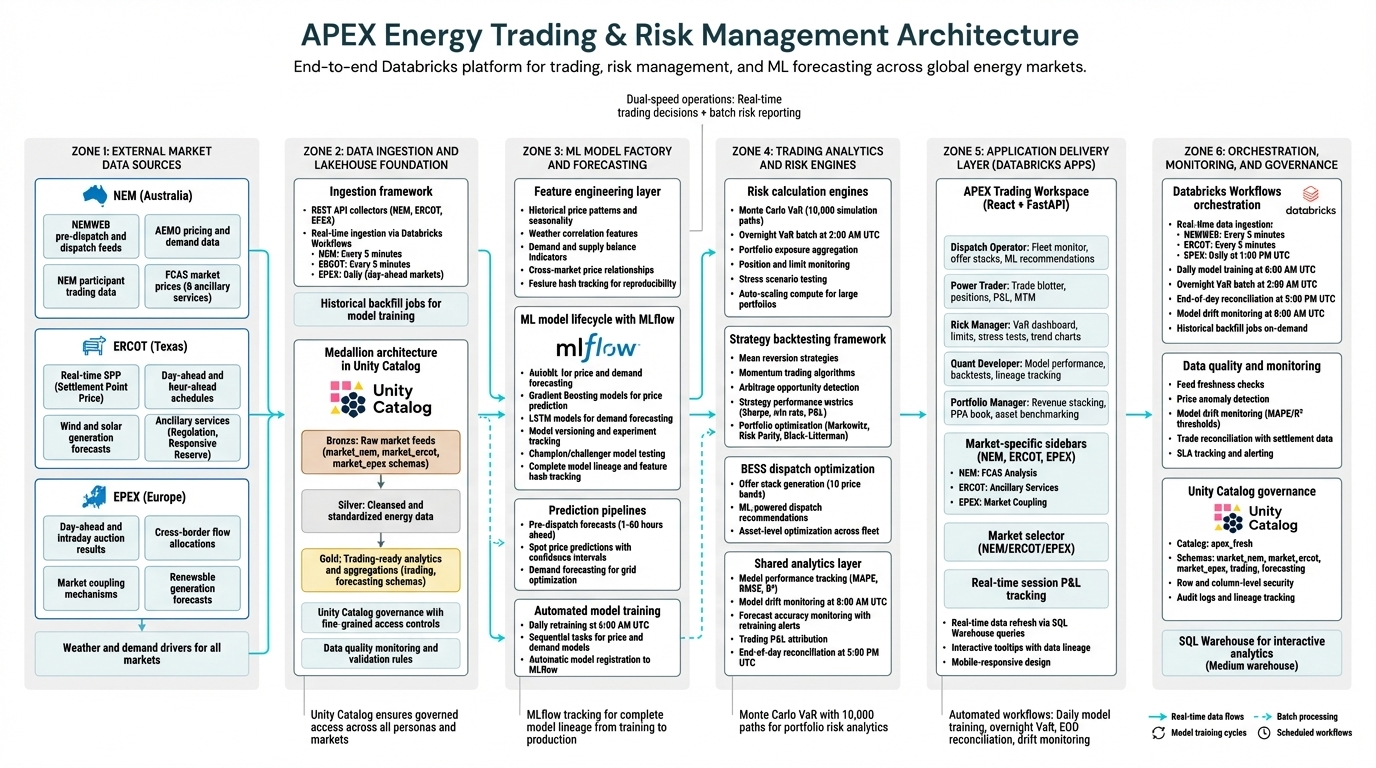
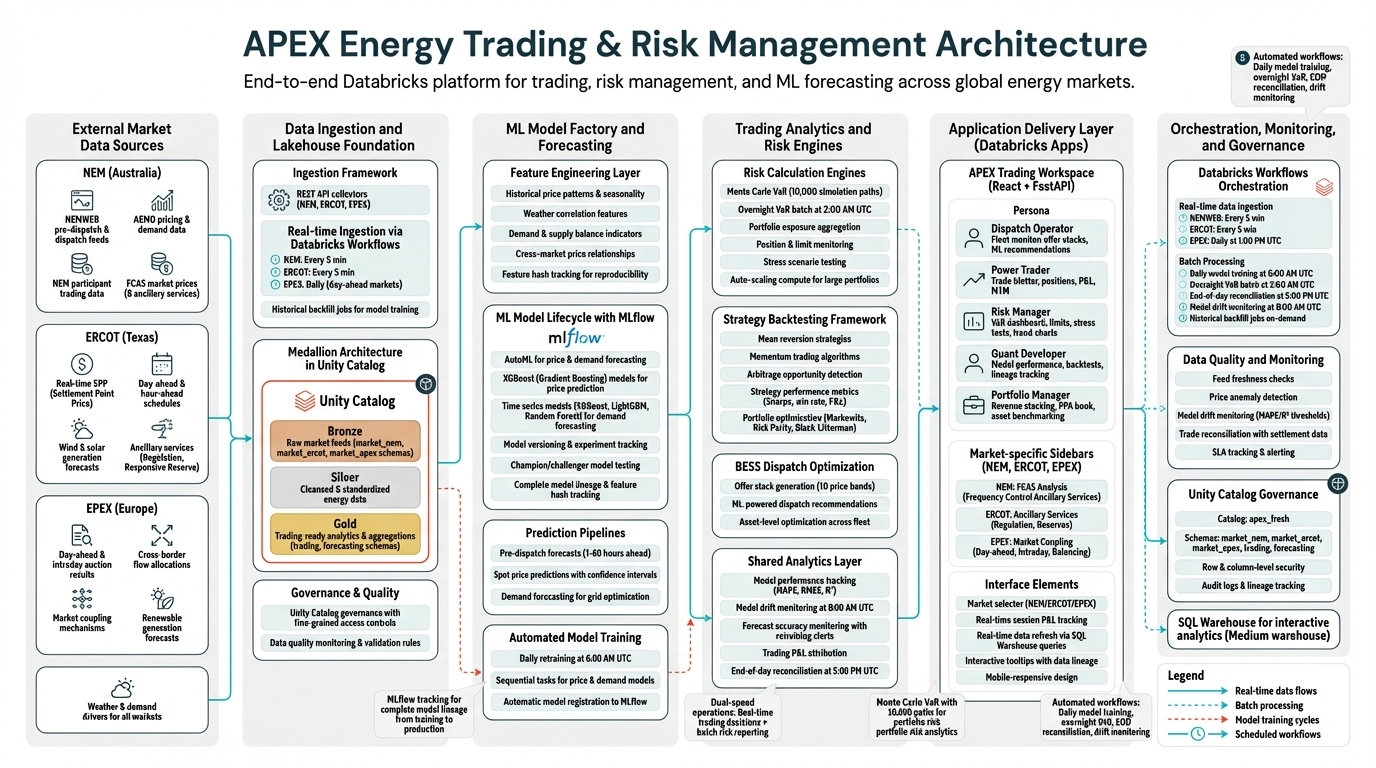
docs: correct architecture diagram ML claims (v3 accuracy update)
Updated APEX architecture diagram to accurately reflect implemented ML capabilities:
- Removed LSTM reference (not implemented in codebase)
- Updated to show actual AutoML implementation (XGBoost, LightGBM, Random Forest)
- Verified all other technical claims (champion/challenger, feature hash tracking)

Changes:
- Regenerated diagram with corrected ML model descriptions
- Updated documentation with V3 accuracy notes
- Confirmed implementation via code verification

🤖 Generated with [Claude Code](https://claude.com/claude-code)

diff --git a/docs/ARCHITECTURE_DIAGRAMS_README.md b/docs/ARCHITECTURE_DIAGRAMS_README.md
@@ -52,6 +52,11 @@ This directory contains Databricks architecture diagrams for the APEX Energy Tra
 - ✅ 5 specialized personas (added Portfolio Manager)
 - ✅ Real-time session P&L tracking
 
+**V3 Accuracy Update (2026-03-23):**
+- 🔧 Corrected ML model description: Removed LSTM reference (not implemented)
+- 🔧 Updated to reflect actual implementation: XGBoost, LightGBM, Random Forest via AutoML
+- 🔧 All other technical claims verified against codebase (AutoML, champion/challenger, feature hash tracking)
+
 ### 3. Architect-Level Architecture (V1 - Deprecated)
 **File:** `apex_etrm_architect_architecture.png`
 **Status:** Superseded by V2
@@ -66,7 +71,7 @@ This directory contains Databricks architecture diagrams for the APEX Energy Tra
 **Run IDs:**
 - Executive: `apex-etrm-exec-v1` (2026-03-23)
 - Architect V1: `apex-etrm-architect-v1` (2026-03-23)
-- Architect V2: `apex-etrm-architect-v2` (2026-03-23) ⭐ **LATEST**
+- Architect V2: `apex-etrm-architect-v2` (2026-03-23) - Updated V3 (2026-03-23) ⭐ **LATEST**
 
 ## Source Prompts
 
@@ -107,11 +112,11 @@ These diagrams are designed for:
 - **EPEX (Europe):** European Power Exchange
 
 ### Core Capabilities
-1. **ML-Powered Forecasting:** Gradient Boosting + LSTM models with MLflow tracking
+1. **ML-Powered Forecasting:** AutoML (XGBoost, LightGBM, Random Forest) with MLflow tracking and champion/challenger testing
 2. **Risk Analytics:** Monte Carlo VaR with 10,000 simulation paths
 3. **Strategy Backtesting:** Mean reversion, momentum, arbitrage strategies
 4. **BESS Dispatch:** Battery Energy Storage System optimization
-5. **Multi-Persona Workspace:** Trader, Risk Manager, Quant Analyst, Dispatch Operator
+5. **Multi-Persona Workspace:** Dispatch Operator, Trader, Risk Manager, Quant Analyst, Portfolio Manager
 
 ### Databricks Services Used
 - **Unity Catalog:** Data governance and access controls
